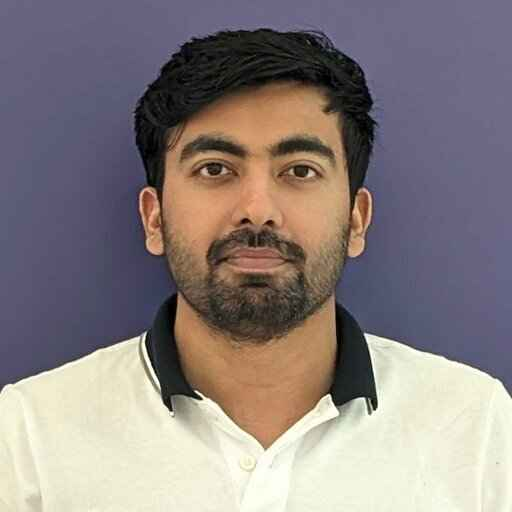
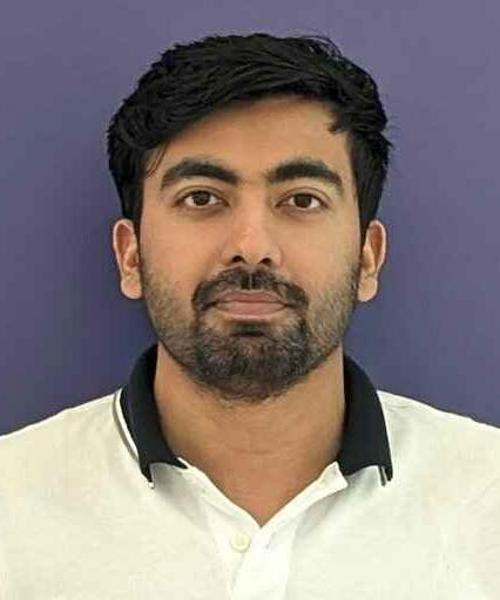
update CS pic and replace index image

diff --git a/about.html b/about.html
@@ -145,7 +145,7 @@
                 <div class="col-lg-3 col-md-6 wow fadeInUp" data-wow-delay="0.7s">
                     <div class="team-item position-relative rounded overflow-hidden">
                         <div class="overflow-hidden">
-                            <img class="img-fluid" src="img/team-1.png" alt="">
+                            <img class="img-fluid" src="img/team-ChuannengSun.jpeg" alt="">
                         </div>
                         <div class="team-text bg-light text-center p-4">
                             <h5>Chuanneng Sun</h5>

diff --git a/index.html b/index.html
@@ -88,7 +88,7 @@
                         </div>
                     </div>
                     <div class="owl-carousel-item position-relative">
-                        <img class="img-fluid" src="img/research.jpg" alt="">
+                        <img class="img-fluid" src="img/orientation.jpg" alt="">
                         <div class="owl-carousel-text">
                             <!-- <h1 class="display-1 text-white mb-0">Pulmonary</h1> -->
                         </div>

diff --git a/resize_img.py b/resize_img.py
@@ -38,7 +38,7 @@ def resize_image(input_path, output_path, width=500, height=600):
         print(f"Image resized to {width}x{height} and saved as {output_path}")
 
 # Example usage:
-input_path = 'img/team-RushikaThandra.jpg'  # Replace with your input image path
-output_path = 'img/team-RushikaThandra.jpg'  # Replace with your desired output image path
-crop_image_to_ratio(input_path, output_path, 5, 6)
-resize_image(input_path, input_path, 500, 600)
+input_path = 'img/orientation.jpg'  # Replace with your input image path
+output_path = 'img/orientation.jpg'  # Replace with your desired output image path
+# crop_image_to_ratio(input_path, output_path, 5, 6)
+resize_image(input_path, input_path, 1000, 1000)
